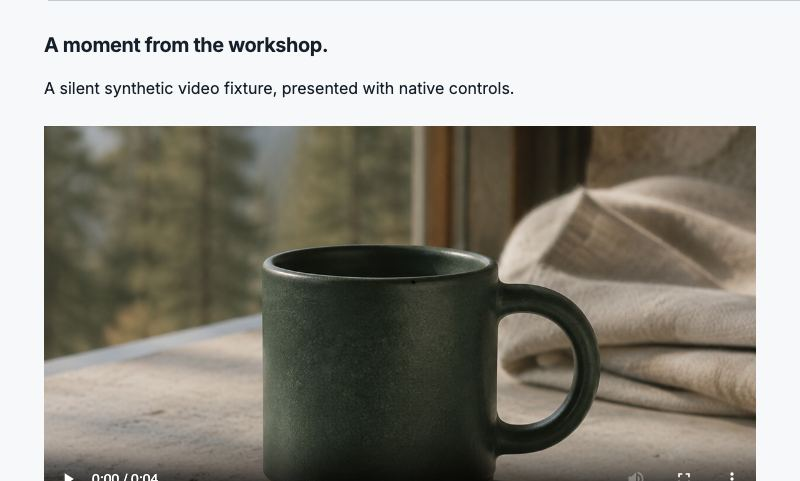
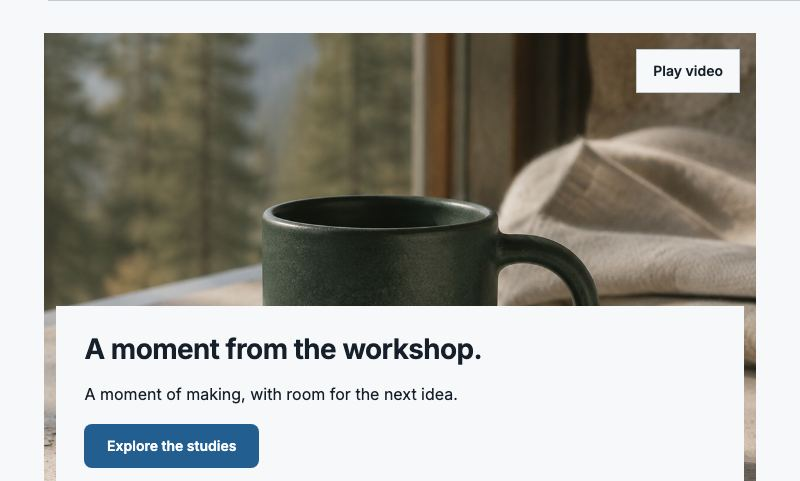
feat: implement accessible looping Video Hero covers

diff --git a/ConvexPress-Website/apps/web/block-demo/browser/hero-video.pw.ts b/ConvexPress-Website/apps/web/block-demo/browser/hero-video.pw.ts
@@ -1,0 +1,50 @@
+import { expect, test } from "@playwright/test";
+import { selectPackReady } from "./pack-ready";
+
+test("Video Hero loops only in view, honors pause and reduced motion, and keeps cover copy usable", async ({ page }, info) => {
+	test.setTimeout(180_000);
+	await page.setViewportSize({ width: 1440, height: 1000 });
+	await page.emulateMedia({ reducedMotion: "reduce" });
+	await page.goto("/?block=core%2Fhero-video&example=1", { waitUntil: "networkidle" });
+	const canvas = page.locator('[data-canonical-block="core/hero-video"]');
+	const video = canvas.locator("video");
+	for (const pack of ["core", "journal", "depot", "aster-house"]) {
+		await selectPackReady(page, pack); await canvas.scrollIntoViewIfNeeded();
+		await expect(canvas.getByRole("button", { name: "Play video", exact: true })).toBeVisible();
+		expect(await video.evaluate((v: HTMLVideoElement) => ({ paused: v.paused, muted: v.muted, loop: v.loop, controls: v.controls }))).toEqual({ paused: true, muted: true, loop: true, controls: false });
+		for (const width of [1200, 350]) {
+			await canvas.evaluate((node, width) => { node.style.width = `${width}px`; node.style.maxWidth = "none"; node.querySelector('.cp-section[data-nested="false"] > .cp-container')?.setAttribute("data-width", "full"); }, width);
+			expect(await canvas.evaluate(node => node.scrollWidth <= node.clientWidth + 1)).toBe(true);
+			const media = await video.boundingBox(); const copy = await canvas.getByRole("heading", { level: 1 }).boundingBox();
+			expect(copy!.y).toBeGreaterThan(media!.y); expect(copy!.y + copy!.height).toBeLessThan(media!.y + media!.height);
+			await canvas.screenshot({ path: info.outputPath(`${pack}-${width}.png`) });
+		}
+	}
+	await canvas.getByRole("button", { name: "Play video", exact: true }).click();
+	await expect.poll(() => video.evaluate((v: HTMLVideoElement) => !v.paused && v.currentTime > 0)).toBe(true);
+	await canvas.getByRole("button", { name: "Pause video", exact: true }).click();
+	await expect.poll(() => video.evaluate((v: HTMLVideoElement) => v.paused)).toBe(true);
+	// A new cover starts automatically only with a normal motion preference.
+	await page.emulateMedia({ reducedMotion: "no-preference" }); await page.reload({ waitUntil: "networkidle" }); await canvas.scrollIntoViewIfNeeded();
+	await expect.poll(() => video.evaluate((v: HTMLVideoElement) => !v.paused && v.currentTime > 0)).toBe(true);
+	await page.evaluate(() => window.scrollTo(0, 0));
+	await expect.poll(() => video.evaluate((v: HTMLVideoElement) => v.paused)).toBe(true);
+	await canvas.scrollIntoViewIfNeeded(); await expect.poll(() => video.evaluate((v: HTMLVideoElement) => !v.paused)).toBe(true);
+	await page.emulateMedia({ reducedMotion: "reduce" }); await expect.poll(() => video.evaluate((v: HTMLVideoElement) => v.paused)).toBe(true);
+	await canvas.getByRole("button", { name: "Play video", exact: true }).focus(); await page.keyboard.press("Enter");
+	await expect.poll(() => video.evaluate((v: HTMLVideoElement) => !v.paused)).toBe(true);
+	await canvas.getByRole("button", { name: "Pause video", exact: true }).click();
+});
+
+test("failed Video Hero keeps poster and copy and can retry", async ({ page }) => {
+	let refuse = true;
+	await page.route("**/media/workshop-fixture.webm", route => refuse ? route.abort() : route.continue());
+	await page.goto("/?block=core%2Fhero-video&example=1", { waitUntil: "networkidle" });
+	const canvas = page.locator('[data-canonical-block="core/hero-video"]'); await canvas.scrollIntoViewIfNeeded();
+	await expect(canvas.getByText("Video unavailable", { exact: true })).toBeVisible();
+	await expect(canvas.getByRole("heading", { name: "A moment from the workshop.", exact: true })).toBeVisible();
+	await expect(canvas.locator(".cp-video-cover-poster")).toBeVisible();
+	refuse = false; await canvas.getByRole("button", { name: "Retry video", exact: true }).click();
+	await expect.poll(() => canvas.locator("video").evaluate((v: HTMLVideoElement) => !v.paused && v.currentTime > 0)).toBe(true);
+	await expect(canvas.getByText("Video unavailable", { exact: true })).toHaveCount(0);
+});

diff --git a/ConvexPress-Website/apps/web/src/templates/sdk/block-renderer/media-details-dom.cases.jsx b/ConvexPress-Website/apps/web/src/templates/sdk/block-renderer/media-details-dom.cases.jsx
@@ -5,6 +5,33 @@ import { JSDOM } from "jsdom";
 import { prepareBlocks } from "./model";
 import countdown from "../../../../../../../blocks/core/countdown/render";
 import marquee from "../../../../../../../blocks/core/marquee/render";
+import { VideoCover } from "./video-cover";
+
+test("cover playback promises cannot revive a paused or replaced resource", async () => {
+	const dom = new JSDOM('<!doctype html><html><body><div id="cover-root"></div></body></html>', { url: "https://example.test", pretendToBeVisual: true });
+	const previous = { window: globalThis.window, document: globalThis.document, HTMLElement: globalThis.HTMLElement, IntersectionObserver: globalThis.IntersectionObserver, IS_REACT_ACT_ENVIRONMENT: globalThis.IS_REACT_ACT_ENVIRONMENT };
+	const listeners = new Set(); const observers = []; const pending = []; const paused = new WeakMap();
+	const preference = { matches: false, addEventListener: (_type, fn) => listeners.add(fn), removeEventListener: (_type, fn) => listeners.delete(fn) };
+	dom.window.matchMedia = () => preference;
+	Object.defineProperty(dom.window.HTMLMediaElement.prototype, "paused", { get() { return paused.get(this) ?? true; } });
+	dom.window.HTMLMediaElement.prototype.pause = function () { const wasPlaying = !this.paused; paused.set(this, true); if (wasPlaying) this.dispatchEvent(new dom.window.Event("pause")); };
+	dom.window.HTMLMediaElement.prototype.play = function () { const video = this; return new Promise(resolve => pending.push({ video, resolve: () => { paused.set(video, false); video.dispatchEvent(new dom.window.Event("play")); resolve(); } })); };
+	class Observer { constructor(callback) { this.callback = callback; this.active = true; observers.push(this); } observe() {} disconnect() { this.active = false; } }
+	Object.assign(globalThis, { window: dom.window, document: dom.window.document, HTMLElement: dom.window.HTMLElement, IntersectionObserver: Observer, IS_REACT_ACT_ENVIRONMENT: true });
+	const { createRoot } = await import("react-dom/client"); const root = createRoot(document.getElementById("cover-root"));
+	const show = src => act(async () => root.render(<VideoCover media={{src,alt:"Workshop",mimeType:"video/webm"}} title="Workshop cover" poster="/poster.png" />));
+	try {
+		await show("/first.webm"); await act(async () => observers.at(-1).callback([{ isIntersecting: true }])); expect(pending).toHaveLength(1);
+		await act(async () => { preference.matches = true; for (const fn of listeners) fn(); });
+		await act(async () => pending[0].resolve()); expect(pending[0].video.paused).toBe(true); expect(document.querySelector("button").textContent).toBe("Play video");
+		await act(async () => document.querySelector("button").click()); expect(pending).toHaveLength(2);
+		await show("/second.webm"); expect(observers[0].active).toBe(false); expect(listeners.size).toBe(1);
+		await act(async () => pending[1].resolve()); expect(pending[1].video.paused).toBe(true); expect(document.querySelector("video").getAttribute("src")).toBe("/second.webm");
+		await act(async () => observers.at(-1).callback([{ isIntersecting: true }])); expect(pending).toHaveLength(2);
+		await act(async () => document.querySelector("button").click()); await act(async () => pending[2].resolve()); expect(document.querySelector("video").paused).toBe(false);
+		await act(async () => root.unmount()); expect(listeners.size).toBe(0); expect(observers.every(observer => !observer.active)).toBe(true); expect(pending[2].video.paused).toBe(true);
+	} finally { await act(async () => root.unmount()); dom.window.close(); Object.assign(globalThis, previous); }
+});
 const policy = {
 	enabledPlugins: [],
 	capabilities: ["reference.targetResolution"],

diff --git a/ConvexPress-Website/apps/web/src/templates/sdk/block-renderer/video-cover.tsx b/ConvexPress-Website/apps/web/src/templates/sdk/block-renderer/video-cover.tsx
@@ -1,0 +1,78 @@
+import { useEffect, useRef, useState } from "react";
+import type { RenderMedia } from "./media-resources";
+import "./video-cover.css";
+
+type Props = { media: RenderMedia; poster?: string; title: string };
+
+/** A muted cover with explicit playback controls; ordinary Video blocks keep native defaults. */
+export function VideoCover(props: Props) {
+	// A changed resource owns a fresh element and cannot inherit an old play promise.
+	return <CoverSession key={props.media.src} {...props} />;
+}
+
+function CoverSession({ media, poster, title }: Props) {
+	const element = useRef<HTMLVideoElement>(null);
+	const command = useRef<(play: boolean) => void>(() => {});
+	const wanted = useRef(false);
+	const [playing, setPlaying] = useState(false);
+	const [failed, setFailed] = useState(false);
+
+	useEffect(() => {
+		const video = element.current;
+		if (!video) return;
+		const preference = window.matchMedia("(prefers-reduced-motion: reduce)");
+		let alive = true;
+		let inView = false;
+		let intent: "auto" | "play" | "pause" = "auto";
+		let generation = 0;
+		const reconcile = () => {
+			const current = ++generation;
+			wanted.current = alive && inView && !document.hidden && (intent === "play" || (intent === "auto" && !preference.matches));
+			if (!wanted.current) { video.pause(); return; }
+			if (!video.paused) return;
+			// Returning to an automatically running cover must never start audible playback.
+			if (intent === "auto") video.muted = true;
+			void video.play().then(() => {
+				if (!alive || !wanted.current) video.pause();
+			}).catch(() => {
+				if (!alive || current !== generation) return;
+				intent = "pause";
+				wanted.current = false;
+				setPlaying(false);
+			});
+		};
+		command.current = play => { intent = play ? "play" : "pause"; reconcile(); };
+		const motionChanged = () => {
+			if (preference.matches) intent = "pause";
+			reconcile();
+		};
+		const observer = new IntersectionObserver(entries => {
+			inView = entries.some(entry => entry.isIntersecting);
+			reconcile();
+		});
+		observer.observe(video);
+		preference.addEventListener("change", motionChanged);
+		document.addEventListener("visibilitychange", reconcile);
+		return () => {
+			alive = false; wanted.current = false; ++generation;
+			command.current = () => {};
+			observer.disconnect(); preference.removeEventListener("change", motionChanged);
+			document.removeEventListener("visibilitychange", reconcile);
+			video.pause();
+		};
+	}, []);
+
+	return <div className="cp-video-cover" data-playing={playing} data-failed={failed}>
+		{poster && <img className="cp-video-cover-poster" src={poster} alt="" decoding="async" />}
+		<video ref={element} className="cp-video-cover-player" src={media.src} poster={poster} aria-label={title}
+			playsInline muted loop preload="metadata"
+			onPlay={() => { if (!wanted.current) { element.current?.pause(); return; } setPlaying(true); }}
+			onPause={() => { setPlaying(false); if (wanted.current) command.current(false); }}
+			onError={() => { setFailed(true); command.current(false); }}>
+			{media.captions && <track kind="captions" src={media.captions.src} srcLang={media.captions.language} label={media.captions.label} default />}
+			<a href={media.src}>Download {title}</a>
+		</video>
+		{!failed && <button className="cp-video-cover-control" type="button" onClick={() => command.current(!playing)}>{playing ? "Pause video" : "Play video"}</button>}
+		{failed && <div className="cp-video-cover-status"><p role="status">Video unavailable</p><button type="button" onClick={() => { setFailed(false); element.current?.load(); command.current(true); }}>Retry video</button></div>}
+	</div>;
+}

diff --git a/blocks/core/hero-video/render.tsx b/blocks/core/hero-video/render.tsx
@@ -1,51 +1,23 @@
-/** Staged canonical Library view. Native controls and owned media only; no autoplay. */
 import { defineBlock } from "../../../ConvexPress-Website/apps/web/src/templates/sdk/block-renderer/model";
 import * as P from "../../../ConvexPress-Website/apps/web/src/templates/sdk/primitives";
-import {
-	Intro,
-	ResolvedImage,
-} from "../../../ConvexPress-Website/apps/web/src/templates/sdk/block-renderer/presentation";
+import { Prose, ResolvedImage } from "../../../ConvexPress-Website/apps/web/src/templates/sdk/block-renderer/presentation";
 import { resolvedAsset } from "../../../ConvexPress-Website/apps/web/src/templates/sdk/block-renderer/media";
-import "../../../ConvexPress-Website/apps/web/src/templates/sdk/block-renderer/media-details.css";
+import { VideoCover } from "../../../ConvexPress-Website/apps/web/src/templates/sdk/block-renderer/video-cover";
 export default defineBlock("core/hero-video", ({ attrs, resources }) => {
-	const video = attrs.video
-		? resolvedAsset(attrs.video.id, resources, "video")
-		: undefined;
-	const poster = attrs.poster
-		? resolvedAsset(attrs.poster.id, resources, "image")
-		: undefined;
-	const focalPoint = attrs.video?.focalPoint ?? attrs.poster?.focalPoint;
-	return (
-		<P.Stack gap="lg">
-			<Intro heading={attrs.title} body={attrs.subtitle} />
-			{video ? (
-				<div
-					className="cp-library-video-hero"
-					style={{
-						width: "100%",
-						objectPosition: focalPoint
-							? `${focalPoint.x * 100}% ${focalPoint.y * 100}%`
-							: undefined,
-					}}
-				>
-					<P.Video
-						src={video.src}
-						poster={poster?.src}
-						title={
-							attrs.title.trim() ||
-							attrs.video?.alt ||
-							video.alt ||
-							"Featured video"
-						}
-						captions={video.captions}
-					/>
-				</div>
-			) : attrs.poster ? (
-				<ResolvedImage {...attrs.poster} resources={resources} />
-			) : (
-				<P.Text tone="muted">Choose a video to display.</P.Text>
-			)}
-			{attrs.cta && <P.Link {...attrs.cta} />}
-		</P.Stack>
-	);
+ const video = attrs.video ? resolvedAsset(attrs.video.id, resources, "video") : undefined;
+ const poster = attrs.poster ? resolvedAsset(attrs.poster.id, resources, "image") : undefined;
+ const focalPoint = attrs.video?.focalPoint ?? attrs.poster?.focalPoint;
+ const hasTitle = !!attrs.title.replace(/[\s\p{Default_Ignorable_Code_Point}]/gu, "");
+ const hasSubtitle = !!attrs.subtitle.replace(/[\s\p{Default_Ignorable_Code_Point}]/gu, "");
+ const hasCopy = hasTitle || hasSubtitle || !!attrs.cta;
+ return <div className="cp-video-hero"><div className="cp-video-hero-cover" data-has-media={!!(video || poster)} style={{ objectPosition: focalPoint ? `${focalPoint.x * 100}% ${focalPoint.y * 100}%` : undefined }}>
+  {(video || poster) && <div className="cp-video-hero-backdrop">
+   {video ? <VideoCover media={video} poster={poster?.src} title={(hasTitle ? attrs.title : undefined) || attrs.video?.alt || video.alt || "Featured video"} /> : attrs.poster && <ResolvedImage {...attrs.poster} resources={resources} />}
+  </div>}
+  {hasCopy && <div className="cp-video-hero-copy"><P.Stack gap="md">
+   {hasTitle && <P.Heading level={1} size="display">{attrs.title}</P.Heading>}
+   {hasSubtitle && <Prose text={attrs.subtitle} />}
+   {attrs.cta && <P.Button {...attrs.cta} />}
+  </P.Stack></div>}
+ </div></div>;
 });

diff --git a/ConvexPress-Website/apps/web/src/templates/sdk/block-renderer/video-cover.css b/ConvexPress-Website/apps/web/src/templates/sdk/block-renderer/video-cover.css
@@ -1,0 +1,36 @@
+.cp-video-hero { container-type: inline-size; }
+.cp-video-hero-cover {
+	display: grid;
+	position: relative;
+	isolation: isolate;
+	min-inline-size: 0;
+	background: var(--muted);
+}
+.cp-video-hero-cover[data-has-media="true"] { min-block-size: clamp(30rem, 58cqi, 42rem); }
+.cp-video-hero-backdrop { position: absolute; inset: 0; z-index: -1; object-position: inherit; }
+.cp-video-cover { block-size: 100%; position: relative; object-position: inherit; }
+.cp-video-cover-player, .cp-video-cover-poster, .cp-video-hero-backdrop > .cp-image, .cp-video-hero-backdrop > .cp-image img {
+	position: absolute; inset: 0; inline-size: 100%; block-size: 100%; object-fit: cover; object-position: inherit; margin: 0;
+}
+.cp-video-cover[data-failed="true"] .cp-video-cover-player { visibility: hidden; }
+.cp-video-cover-control, .cp-video-cover-status {
+	position: absolute; inset-block-start: 1rem; inset-inline-end: 1rem;
+	margin: 0; min-block-size: 44px; padding: .65rem 1rem;
+	border: 1px solid var(--border); border-radius: var(--radius);
+	background: var(--background); color: var(--foreground); font: 600 .875rem/1.4 var(--font-sans);
+}
+.cp-video-cover-control { cursor: pointer; }
+.cp-video-cover-control:focus-visible { outline: 2px solid var(--ring); outline-offset: 3px; }
+.cp-video-hero-copy {
+	align-self: end;
+	inline-size: min(42rem, 100%);
+	box-sizing: border-box;
+	padding: clamp(1.25rem, 4cqi, 3rem);
+	background: var(--background); color: var(--foreground);
+}
+.cp-video-hero-cover[data-has-media="true"] .cp-video-hero-copy { margin: 8rem .75rem 1rem; inline-size: calc(100% - 1.5rem); }
+.cp-video-hero-copy .cp-heading { font-size: clamp(2rem, 6cqi, 4.5rem); line-height: 1.05; text-wrap: balance; overflow-wrap: anywhere; }
+.cp-video-hero-copy .cp-text { max-inline-size: 48ch; }
+@container (min-width: 48rem) {
+	.cp-video-hero-cover[data-has-media="true"] .cp-video-hero-copy { margin-block: 5rem; margin-inline-start: 2rem; inline-size: min(38rem, 60%); }
+}

diff --git a/ConvexPress-Website/apps/web/src/templates/sdk/block-renderer/media-details.cases.tsx b/ConvexPress-Website/apps/web/src/templates/sdk/block-renderer/media-details.cases.tsx
@@ -42,7 +42,7 @@ test("grade gallery preserves ordered grades, descriptions, notes and every decl
 		contentHtml(grade, { sections: [{ images: [{ mediaId: "missing" }] }] }),
 	).toThrow();
 });
-test("hero video resolves separate native video and poster identities without autoplay or provider embeds", () => {
+test("hero video renders a paused SSR cover with distinct media, poster, captions and explicit playback control", () => {
 	const html = contentHtml(
 		hero,
 		{
@@ -66,12 +66,19 @@ test("hero video resolves separate native video and poster identities without au
 	expect(html).toContain('src="/workshop.webm"');
 	expect(html).toContain('poster="/poster.png"');
 	expect(html).toContain("20% 80%");
-	expect(html).toContain("controls=");
+	expect(html).not.toContain("controls=");
+	expect(html).toContain("Play video");
+	expect(html).toContain('loop=""');
+	expect(html).toContain('muted=""');
+	expect(html).toContain('class="cp-video-hero-copy"');
 	expect(html).not.toContain("autoPlay");
 	expect(html).not.toContain("autoplay");
 	expect(html).toContain('src="/captions.vtt"');
 	expect(html).toContain('href="/notes"');
 	expect(() => contentHtml(hero, { video: { id: "paper" } })).toThrow();
+	const empty = contentHtml(hero, { title: "\u200b ", subtitle: "\n " });
+	expect(empty).not.toContain("<h1");
+	expect(empty).not.toContain('class="cp-video-hero-copy"');
 });
 test("lightbox-grid uses the same real modal behavior and preserves optional caption-only items", () => {
 	const html = contentHtml(lightbox, {

diff --git a/blocks/.generated/ai-catalog.ts b/blocks/.generated/ai-catalog.ts
@@ -1,6 +1,6 @@
 // Generated by root sync:blocks. Do not edit. Staged contracts; runtime activation is separate.
 export interface AiCatalogEntry { name: string; version: number; title: string; description: string; ai: { useFor: string; avoid: string }; supports: { children: boolean; styles: boolean; layout: string[]; anchor: boolean; visibility: boolean }; requires: { plugins: string[]; capabilities: string[] }; example: Record<string, unknown> }
[2 lines of base64/hex data omitted]
 export const aiCatalog: readonly AiCatalogEntry[] = [
   {
     "ai": {
@@ -2527,7 +2527,7 @@ export const aiCatalog: readonly AiCatalogEntry[] = [
   },
   {
     "ai": {
-      "avoid": "Do not invent records, permissions, prices, endorsements or resource identifiers. Presentation comes from the selected template.",
+      "avoid": "Use silent atmospheric footage. Use the Video block for speech, sound or instructional clips. Do not invent media identifiers.",
       "useFor": "Full-bleed looping video with overlay copy."
     },
     "description": "Full-bleed looping video with overlay copy.",

diff --git a/ConvexPress-Website/apps/web/block-demo/browser/media-details.pw.ts b/ConvexPress-Website/apps/web/block-demo/browser/media-details.pw.ts
@@ -58,9 +58,10 @@ for (const viewport of [
 					width: node.getBoundingClientRect().width,
 				};
 			});
-			expect(media.controls).toBe(true);
+			expect(media.controls).toBe(false);
 			expect(media.autoplay).toBe(false);
 			expect(media.paused).toBe(true);
+			await expect(canvas.getByRole("button", { name: "Play video", exact: true })).toBeVisible();
 			expect(media.width).toBeGreaterThan(0);
 			expect(media.src).toContain("workshop-fixture");
 			expect(media.poster).toBeTruthy();

diff --git a/blocks/.generated/editor-metadata.ts b/blocks/.generated/editor-metadata.ts
@@ -4878,6 +4878,7 @@ export const editorDefinitions: Record<BlockName, EditorDefinition> = {
         "default": "",
         "id": "subtitle",
         "max": 1000,
+        "multiline": true,
         "type": "text"
       },
       {

diff --git a/ConvexPress-Admin/audits/2026-09-04/hero-video-20260921.md b/ConvexPress-Admin/audits/2026-09-04/hero-video-20260921.md
@@ -1,0 +1,33 @@
+# Video Hero — September 21
+
+**Video Hero is verified for its current canonical contract. 58/137 blocks verified;79 In progress. Original production audit remains eight accepted/sixteen open.**
+
+## Requirement and repair
+
+The specification describes a looping full-bleed video cover with overlaid copy. The prior renderer instead displayed a normal native player beneath its heading. The repaired SDK treatment fills the available cover with video and places authored copy in a solid, token-colored panel. The narrow treatment leaves a substantial visible image above the inset copy panel; it does not crush the video into two thin strips. No gradients or per-frame JavaScript animation were added.
+
+Cover playback is muted and looping, with an explicit keyboard-accessible Play/Pause control. It starts only when visible with no reduced-motion preference. Offscreen or hidden documents pause it. A reduced-motion change stops it; explicit visitor playback remains available. Autoplay-policy rejection leaves an operable Play button. Errors retain the poster and copy and expose Retry. Each video source owns a separate playback lifecycle; stale promises cannot resume a paused or replaced element. Observers/listeners are removed on unmount.
+
+This is a decorative video cover. The ordinary Video primitive/block remains a native player with captions, sound controls and no autoplay; the Hero AI guidance now directs speech/instructional clips there. Cover captions and distinct resolved poster/video identities remain supported. The Hero title is H1; optional invisible-only title/subtitle do not create an empty heading/panel. Existing saved strings are not rewritten. Subtitle selects a multiline editor without changing its string type, defaults or schema version. No content migration is required.
+
+## Verification
+
+-305 renderer cases/5,370 assertions pass. The cover SSR test checks paused initial markup, custom control, muted looping, distinct video/poster, focal point, captions, action and MIME refusal. A deferred-play DOM regression verifies reduced-motion interruption, source replacement, explicit playback and listener/observer cleanup.
+-Four browser cases pass. New coverage exercises all four packs,1200/350px geometry, overlaid heading, actual video playback, manual pause, normal-motion startup, offscreen pause/resume, live reduced-motion changes, keyboard play and recoverable video-request failure. Existing media-details cases still pass lightbox/marquee/countdown behavior at1440/390px. The old cover-native-controls assertion was replaced with the new explicit control contract; normal Video tests remain unchanged.
+-Admin, Website and BlockDemo types, final client/SSR build, generated freshness, block/kit checks, focused lint and diff whitespace pass. Four Hero Video thumbnails were refreshed; all548 catalog entries validate.
+
+Owned Electron3574 used the synthetic operator on isolated staging4860. The native media picker uploaded hero-video-cover-fixture.webm, selected the existing ceramics poster, and authored title, multiline subtitle, per-use alt text, anchor and CTA. Save/reopen, a changed title and reviewed history restore passed. Authorized revision readback proves revision3, restored revision5 and published revision7 contain exactly the same block tree.
+
+The actual built Website at1440/390px started paused in reduced-motion mode, played after explicit activation, stayed muted, crossed a real loop boundary, paused on command, and allowed keyboard navigation from the playback button to the CTA. Poster decoding and no horizontal overflow were confirmed. Final rebuilt Website playback was rechecked. The four-second silent synthetic clip tests lifecycle and looping; it does not certify every customer codec or broad hardware/GPU performance.
+
+## Deployment and cleanup
+
+Strict deployment succeeded in50.7seconds from ConvexPress-Admin/output/production-checkpoints/hero-video-20260921, preserving1601 files and22 installed Events files. Future snapshots must derive from this checkpoint. Only generated field/editor/catalog metadata changed server-side; the subsequent renderer/CSS refinements did not alter backend contracts.
+
+Native withdrawal, original-editor recovery and sign-out passed. The owned page and uploaded media record/storage were permanently removed. All42 original pages,11 original media and appearance values compare unchanged; nine Events/media tables match the pre-deployment backup. The removed page renders404. Owned API/browser/Electron/preview/tunnel resources closed and private profile removed. User processes39198/69634/8172/68390 remain running.
+
+Harness corrections: the fixture file was under block-demo/public rather than Website public; a broad H1 locator matched the page title as well as the Hero; the first2.6second sample was shorter than the4second video, so an explicit near-end playback sample subsequently proved the loop. These did not remove checks or conceal a failed playback result.
+
+MagicTables updates only core/hero-video completion fields and appends this evidence, with an exact dry-run and full137-row readback. Artifacts: output/hero-video-20260921, including browser-final.log, renderers-final.log, native-recovery.json, recovery-proof.json, public-proof.json, owned-media.json, final-preservation.json, cleanup.json and public-cleanup.json.
+
+Next: remaining opening/navigation and other unfinished block families; complete template websites and all original audit release gates remain open.

diff --git a/ConvexPress-Admin/audits/2026-09-04/implementation-ledger.md b/ConvexPress-Admin/audits/2026-09-04/implementation-ledger.md
@@ -1,5 +1,8 @@
 # ConvexPress production-readiness implementation ledger
 
+September21 Video Hero: **58/137 blocks verified;79 pending.** Replaced the player-below-heading mismatch with a muted looping cover and token-colored overlay copy. Added explicit Play/Pause, visibility/reduced-motion handling, poster/error fallback, Retry and stale-play protection; ordinary Video behavior stays intact. Native uploaded/selected/authored/reopened/recovered/published exact content; actual Website playback crossed a loop boundary and passed final mobile/keyboard checks.305 renderer/four browser cases, all types/build/freshness/kit/lint and refreshed thumbnails pass. Original42 pages/11 media/appearance/plugin preserved; owned resources cleaned. Original audit8accepted/16open. [Evidence](hero-video-20260921.md).
+
+
 September21 Hero styles: **57/137 blocks verified;80 pending.** Main Hero now supports default/editorial/poster through four explicit pack-owned treatments. Added a finite BlockDemo style selector and shared typed SDK composition, preserving historical/default content. Native style save/reopen/exact recovery and both actual published Website styles pass desktop/mobile/media/keyboard checks.304 renderer/six presentation/four browser cases, all types/build/freshness/kit/thumbnails/lint pass. Original42 pages/appearance/plugin/media preserved; owned resources cleaned. Original audit8accepted/16open. [Evidence](hero-styles-20260921.md).
 
 

diff --git a/ConvexPress-Admin/audits/2026-09-04/current-acceptance.md b/ConvexPress-Admin/audits/2026-09-04/current-acceptance.md
@@ -1,5 +1,8 @@
 # Current production acceptance index — September 21
 
+September21 Video Hero: **58/137 blocks verified;79 pending.** Replaced the player-below-heading mismatch with a muted looping cover and token-colored overlay copy. Added explicit Play/Pause, visibility/reduced-motion handling, poster/error fallback, Retry and stale-play protection; ordinary Video behavior stays intact. Native uploaded/selected/authored/reopened/recovered/published exact content; actual Website playback crossed a loop boundary and passed final mobile/keyboard checks.305 renderer/four browser cases, all types/build/freshness/kit/lint and refreshed thumbnails pass. Original42 pages/11 media/appearance/plugin preserved; owned resources cleaned. Original audit8accepted/16open. [Evidence](hero-video-20260921.md).
+
+
 September21 Hero styles: **57/137 blocks verified;80 pending.** Main Hero now supports default/editorial/poster through four explicit pack-owned treatments. Added a finite BlockDemo style selector and shared typed SDK composition, preserving historical/default content. Native style save/reopen/exact recovery and both actual published Website styles pass desktop/mobile/media/keyboard checks.304 renderer/six presentation/four browser cases, all types/build/freshness/kit/thumbnails/lint pass. Original42 pages/appearance/plugin/media preserved; owned resources cleaned. Original audit8accepted/16open. [Evidence](hero-styles-20260921.md).
 
 
